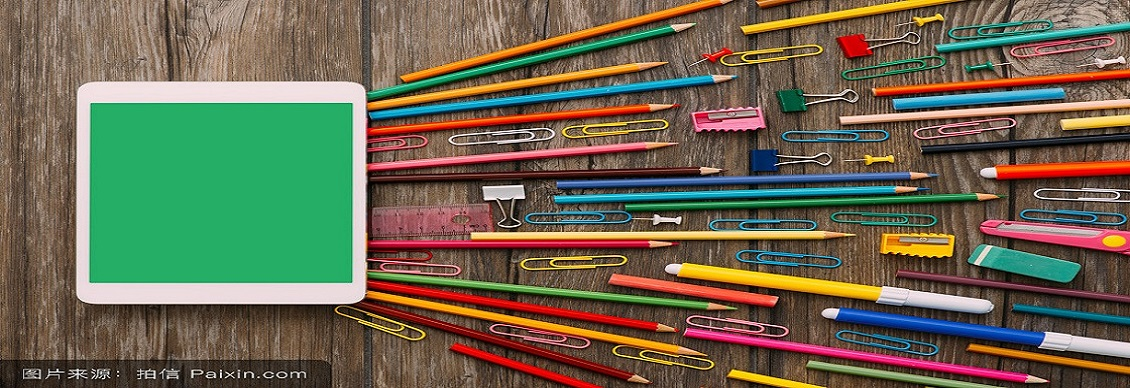
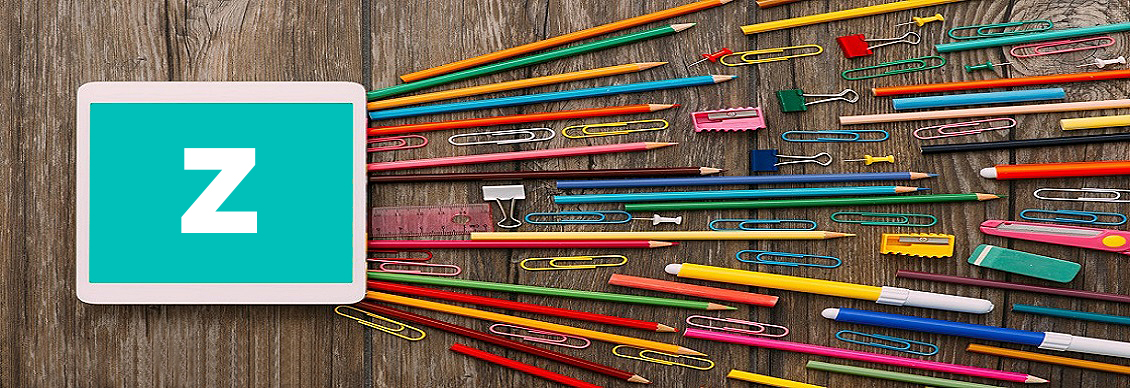
更新banner和最新兼职样式 From WIN10

diff --git a/application/index/view/index/index.html b/application/index/view/index/index.html
@@ -19,17 +19,17 @@
 				</div>
 			</div>
 			<style>
-			#banner{
-				padding: 0;
-				height: 390px;
-				background: #f5f5f5;
-			}
-			#banner img{
-				position: relative;
-				top: 0;
-				border-radius: 5px;
-			}
-		</style>
+				#banner{
+					padding: 0;
+					height: 390px;
+					background: #f5f5f5;
+				}
+				#banner img{
+					position: relative;
+					top: 0;
+					border-radius: 5px;
+				}
+			</style>
 		<script>
 			var imgArr = $("#banner").children("img");
 			var interval = setInterval(banner,3000);
@@ -75,27 +75,70 @@
 					<div class="panel-heading panelHead">
 						<h3 class="panel-title">最新兼职</h3>
 					</div>
-					<div class="panel-body latestJob">
+					<div class="panel-body">
 						<div class="col-md-6">
 							{volist name='information' id='vo'}
-							<a href="detail.php">
+							<a class="jobInfoLink" href="detail.php">
 								<li class="jobInfo">
-									<span class="label label-danger"> 急</span> {$vo.title} <span class="pull-right publisher">{$vo.time}</span>
-									<span class="label label-warning">{$vo.salary}</span>
+									<span class="label label-danger"> 急</span> <span class="jobTitle">{$vo.title}</span>
+								</li>
+								<li class="jobInfo merchant text-right">
+									【{$vo.username}】
+								</li>
+								<li class="jobInfo">
+									<span class="salary label label-warning">{$vo.salary}</span>
+									<span class="publisher pull-right">{$vo.time}</span>
 								</li>
 							</a>
 							{/volist}
 						</div>
 						<div class="col-md-6">
 							{volist name='information' id='vo'}
-							<li class="jobInfo"><a href="detail.php">{$vo.title}</a> <span class="label label-danger"> 急</span> {$vo.username} <span class="pull-right publisher">{$vo.time}</span></li>
-							<li><span >{$vo.salary}</span></li>
+							<a class="jobInfoLink" href="detail.php">
+								<li class="jobInfo">
+									<span class="label label-danger"> 急</span> <span class="jobTitle">{$vo.title}</span>
+								</li>
+								<li class="jobInfo merchant text-right">
+									【{$vo.username}】
+								</li>
+								<li class="jobInfo">
+									<span class="salary label label-warning">{$vo.salary}</span>
+									<span class="publisher pull-right">{$vo.time}</span>
+								</li>
+							</a>
 							{/volist}
 						</div>
 					</div>
 				</div>
 			</div>
 		</div>
+		<style>
+			.jobTitle{
+				font-size: 14px;
+				font-weight: bold;
+			}
+			.salary{
+				font-size: 14px;
+			}
+			.jobInfo{
+				padding: 0;
+				margin-top: 10px;
+			}
+			.merchant{
+				color: #222;
+				font-weight: bold;
+			}
+			.jobInfoLink{
+				display: block;
+				/*background: red;*/
+				padding: 10px;
+			}
+			.jobInfoLink:hover{
+				text-decoration: none;
+				background: #eee;
+
+			}	
+		</style>
 		<div class="row">
 			<div class="col-md-12">
 				<div class="panel panel-default">

diff --git a/public/static/index/css/common.css b/public/static/index/css/common.css
@@ -36,9 +36,6 @@ body {
     background: #00a0a2;
     color: #eee; }
 
-.latestJob a:hover {
-  text-decoration: none; }
-
 .jobInfo {
   margin: 10px; }
 

diff --git a/public/static/index/css/common.scss b/public/static/index/css/common.scss
@@ -52,14 +52,6 @@ body{
 	}
 }
 
-.latestJob{
-	a{
-		&:hover{
-			text-decoration: none;
-		}
-	}
-}
-
 .jobInfo{
 	margin: 10px;
 }

diff --git a/application/database.php b/application/database.php
@@ -19,8 +19,8 @@ return [
     // 用户名
     'username'        => 'root',
     // 密码
-    'password'        => '123456',
-    //'password'        => '00001011',
+    // 'password'        => '123456',
+    'password'        => '00001011',
     // 端口
     'hostport'        => '',
     // 连接dsn
